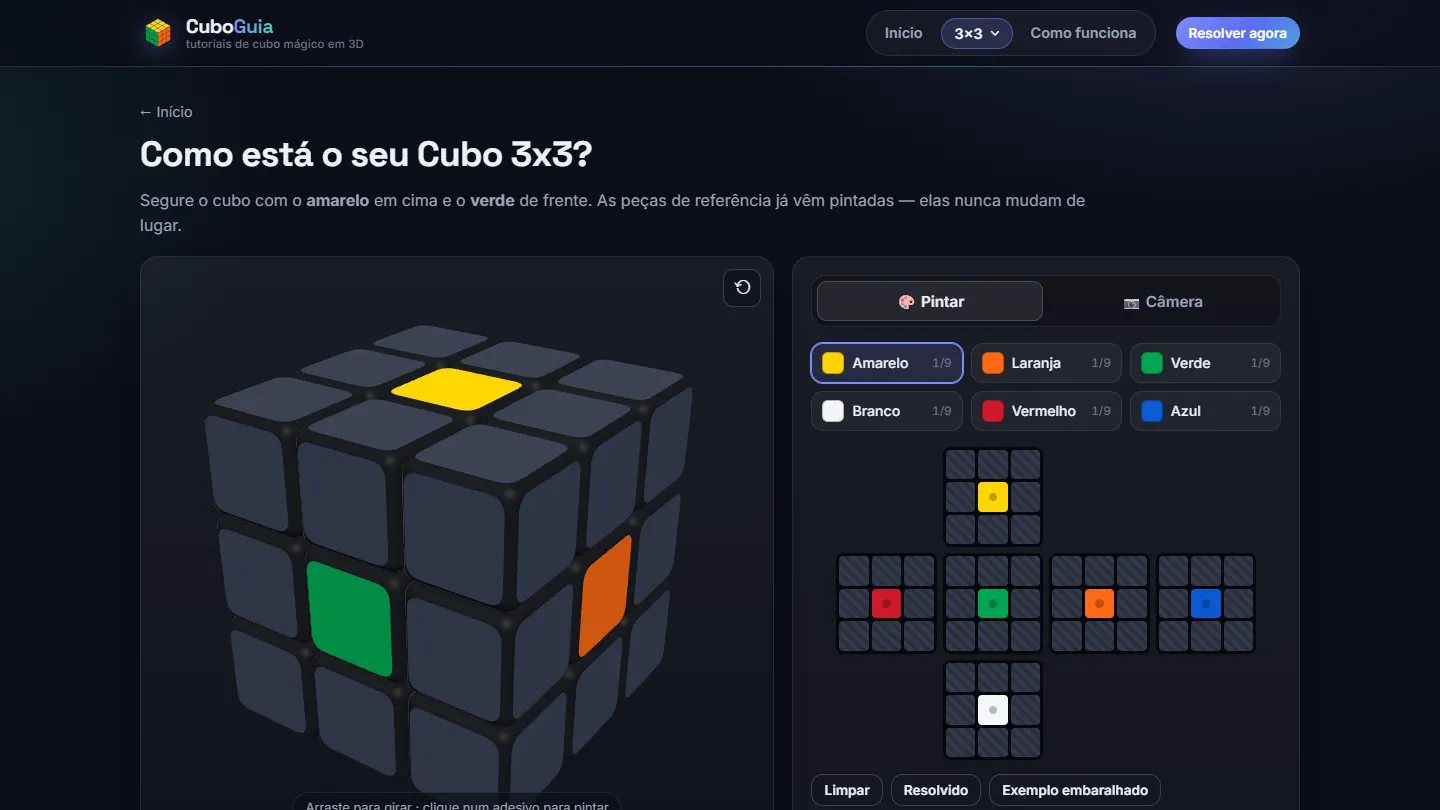
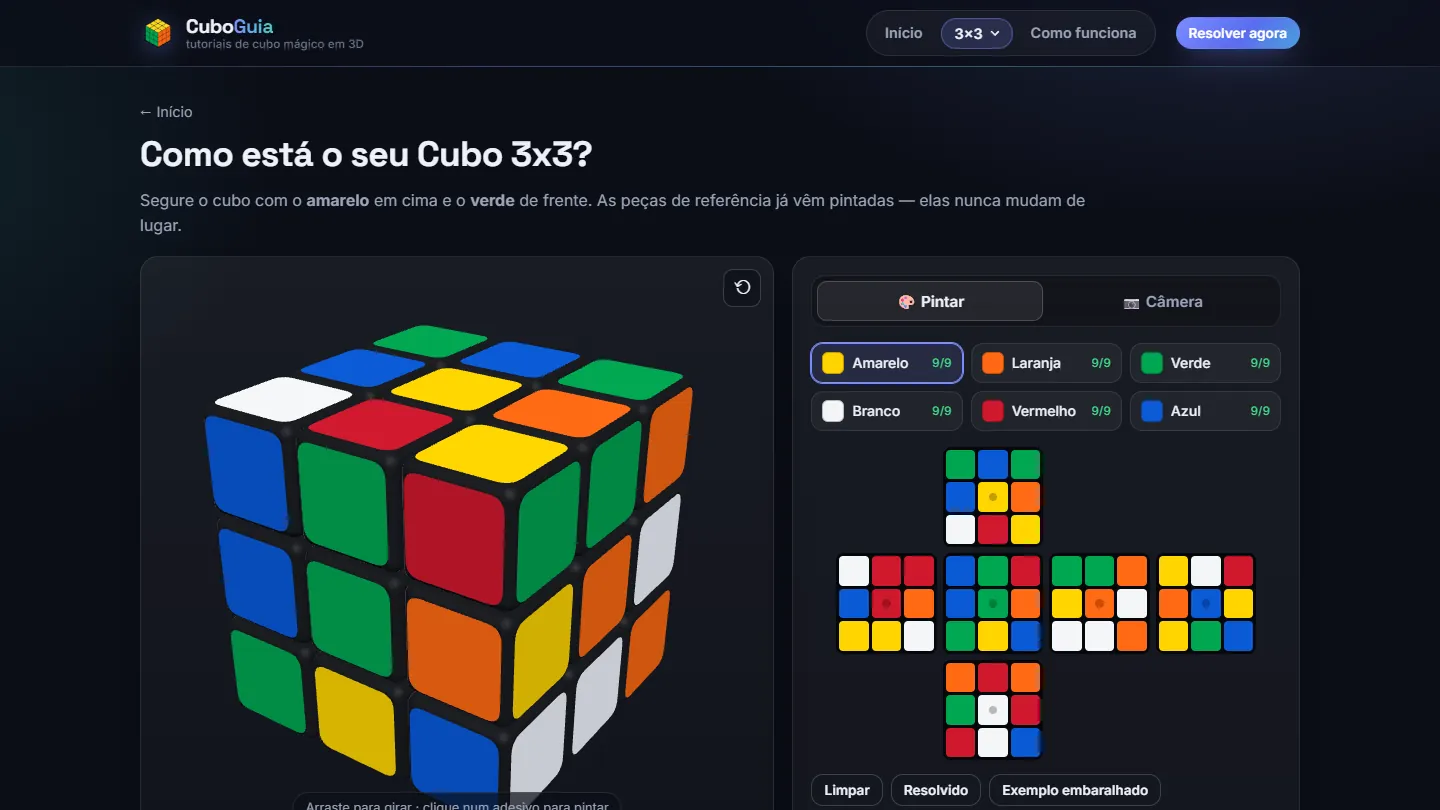
feat: Buscafé nos projetos para clientes e mais fotos por projeto
- Buscafé (projeto para cliente, em parceria com Vitor) em destaque na
  seção "Para clientes", com 5 telas e textos nos quatro idiomas
- CuboGuia com tutorial, pintura 3D, Megaminx e "como funciona" (5 fotos)
- Ortiz com "o que oferecemos", Sobre nós e contato (5 fotos)
- Apex com portfólio e FAQ (4 fotos)

diff --git a/src/data/projects.ts b/src/data/projects.ts
@@ -45,13 +45,34 @@ export const projects: Project[] = [
     accent: "#6d7cff",
     images: [
       "/projects/cuboguia-inicio.webp",
+      "/projects/cuboguia-tutorial.webp",
       "/projects/cuboguia-3d.webp",
+      "/projects/cuboguia-megaminx.webp",
+      "/projects/cuboguia-como-funciona.webp",
     ],
     stack: ["TypeScript", "Three.js", "Vite", "Vitest", "Cloudflare Pages"],
     links: {
       live: "https://cuboguia.pages.dev/",
       repo: "https://github.com/GroundWave96/cuboguia",
     },
+  },
+  {
+    id: "buscafe",
+    kind: "client",
+    year: 2026,
+    featured: true,
+    inProgress: true,
+    accent: "#c2412d",
+    images: [
+      "/projects/buscafe-inicio.webp",
+      "/projects/buscafe-catalogo.webp",
+      "/projects/buscafe-cafe.webp",
+      "/projects/buscafe-regioes.webp",
+      "/projects/buscafe-quiz.webp",
+    ],
+    stack: ["Next.js", "React", "TypeScript", "Tailwind CSS", "Radix UI", "Playwright", "Docker"],
+    // Temporary address while the client validates the new version.
+    links: { live: "https://2-31-150-230.sslip.io/" },
   },
   {
     id: "ortiz",
@@ -61,6 +82,9 @@ export const projects: Project[] = [
     images: [
       "/projects/ortiz-inicio.webp",
       "/projects/ortiz-sobre.webp",
+      "/projects/ortiz-oferecemos.webp",
+      "/projects/ortiz-quem-somos.webp",
+      "/projects/ortiz-contato.webp",
     ],
     stack: ["React", "Vite", "TypeScript", "Figma", "SEO"],
     links: { live: "https://ortizprojetoeengenharia.eng.br/" },
@@ -74,6 +98,8 @@ export const projects: Project[] = [
     images: [
       "/projects/apex-inicio.webp",
       "/projects/apex-servicos.webp",
+      "/projects/apex-portfolio.webp",
+      "/projects/apex-faq.webp",
     ],
     stack: ["Next.js", "TypeScript", "Tailwind CSS", "Cloudflare Workers", "SEO"],
     links: { live: "https://www.apexdevstudio.workers.dev/pt" },

diff --git a/src/sections/Projects.tsx b/src/sections/Projects.tsx
@@ -23,6 +23,9 @@ export function Projects() {
 
   const own = projects.filter((p) => p.kind === "own");
   const client = projects.filter((p) => p.kind === "client");
+  // A featured client project gets a full-width card; the rest share a two-column grid.
+  const clientFeatured = client.filter((p) => p.featured);
+  const clientGrid = client.filter((p) => !p.featured);
   const openProject = projects.find((p) => p.id === openId) ?? null;
 
   return (
@@ -42,8 +45,15 @@ export function Projects() {
         </div>
 
         <h3 className="eyebrow mt-14 mb-4">{t.projects.client}</h3>
-        <div className="grid gap-5 md:grid-cols-2">
-          {client.map((p, i) => (
+        <div className="flex flex-col gap-5">
+          {clientFeatured.map((p) => (
+            <Reveal key={p.id} delay={0.05}>
+              <ProjectCard project={p} variant="featured" onOpen={() => setOpenId(p.id)} />
+            </Reveal>
+          ))}
+        </div>
+        <div className={`grid gap-5 md:grid-cols-2 ${clientFeatured.length ? "mt-5" : ""}`}>
+          {clientGrid.map((p, i) => (
             <Reveal key={p.id} delay={i * 0.08} className="h-full">
               <ProjectCard project={p} onOpen={() => setOpenId(p.id)} />
             </Reveal>
